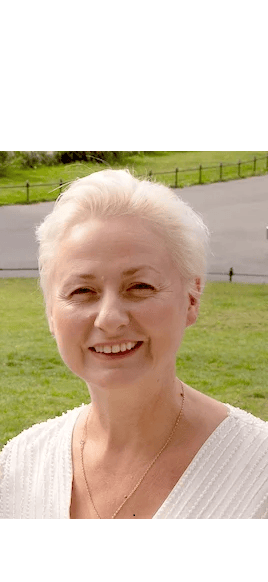
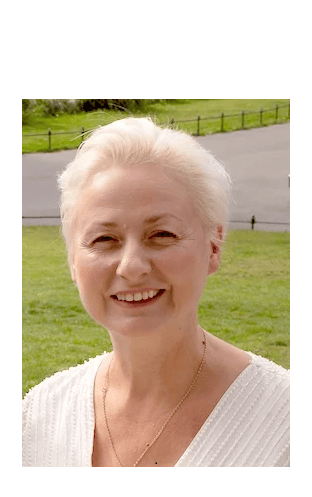
deploy: multimodalAI/multimodal-ai-hugo-group@0f777a10f112ae7446bccef2cc9a38927de125bc

diff --git a/author/anna-barnes/index.html b/author/anna-barnes/index.html
@@ -1,4 +1,4 @@
-<!doctype html><html lang=en-us><head><meta charset=utf-8><meta name=viewport content="width=device-width,initial-scale=1"><meta http-equiv=X-UA-Compatible content="IE=edge"><meta name=generator content="Wowchemy 5.7.0 for Hugo"><link rel=stylesheet href=/css/vendor-bundle.min.16f785cdb553c8c4431db6775122af35.css media=print onload='this.media="all"'><link rel=stylesheet href=https://cdn.jsdelivr.net/npm/academicons@1.9.2/css/academicons.min.css integrity="sha512-KlJCpRsLf+KKu2VQa5vmRuClRFjxc5lXO03ixZt82HZUk41+1I0bD8KBSA0fY290ayMfWYI9udIqeOWSu1/uZg==" crossorigin=anonymous media=print onload='this.media="all"'><link rel=stylesheet href=https://cdn.jsdelivr.net/npm/leaflet@1.7.1/dist/leaflet.min.css integrity crossorigin=anonymous media=print onload='this.media="all"'><link rel=stylesheet href=/css/wowchemy.b9231f75dcc97a371ce6141b4d2aadaf.css><link rel=stylesheet href=/css/libs/chroma/github-light.min.css title=hl-light media=print onload='this.media="all"'><link rel=stylesheet href=/css/libs/chroma/dracula.min.css title=hl-dark media=print onload='this.media="all"' disabled><script async src="https://www.googletagmanager.com/gtag/js?id=G-5K2K2GHWHQ"></script><script>window.dataLayer=window.dataLayer||[];function gtag(){dataLayer.push(arguments)}function trackOutboundLink(e,t){gtag("event","click",{event_category:"outbound",event_label:e,transport_type:"beacon",event_callback:function(){t!=="_blank"&&(document.location=e)}}),console.debug("Outbound link clicked: "+e)}function onClickCallback(e){if(e.target.tagName!=="A"||e.target.host===window.location.host)return;trackOutboundLink(e.target,e.target.getAttribute("target"))}gtag("js",new Date),gtag("config","G-5K2K2GHWHQ",{}),gtag("set",{cookie_flags:"SameSite=None;Secure"}),document.addEventListener("click",onClickCallback,!1)</script><meta name=author content="Haiping Lu"><meta name=description content="Unleashing the Potential of Multimodal AI - Join Us at Our Second Workshop!"><link rel=alternate hreflang=en-us href=https://multimodalAI.github.io/author/anna-barnes/><link rel=canonical href=https://multimodalAI.github.io/author/anna-barnes/><link rel=manifest href=/manifest.webmanifest><link rel=icon type=image/png href=/media/icon_hu25caa61f2e6d310cd2b668efa4781043_104298_32x32_fill_lanczos_center_3.png><link rel=apple-touch-icon type=image/png href=/media/icon_hu25caa61f2e6d310cd2b668efa4781043_104298_180x180_fill_lanczos_center_3.png><meta name=theme-color content="#1565c0"><meta property="twitter:card" content="summary"><meta property="twitter:site" content="@MultimodalAI_UK"><meta property="twitter:creator" content="@MultimodalAI_UK"><meta property="twitter:image" content="https://multimodalAI.github.io/author/anna-barnes/avatar_hu19ffdef67b503925eae9bc0d773384f8_153045_270x270_fill_lanczos_center_3.png"><meta property="og:site_name" content="UK Open Multimodal AI Network"><meta property="og:url" content="https://multimodalAI.github.io/author/anna-barnes/"><meta property="og:title" content="Anna Barnes | UK Open Multimodal AI Network"><meta property="og:description" content="Unleashing the Potential of Multimodal AI - Join Us at Our Second Workshop!"><meta property="og:image" content="https://multimodalAI.github.io/author/anna-barnes/avatar_hu19ffdef67b503925eae9bc0d773384f8_153045_270x270_fill_lanczos_center_3.png"><meta property="og:locale" content="en-us"><link rel=alternate href=/author/anna-barnes/index.xml type=application/rss+xml title="UK Open Multimodal AI Network"><title>Anna Barnes | UK Open Multimodal AI Network</title></head><body id=top data-spy=scroll data-offset=70 data-target=#TableOfContents class=page-wrapper data-wc-page-id=ac922c40d64991a8132fbf95b5ce5009><script src=/js/wowchemy-init.min.ec9d49ca50e4b80bdb08f0417a28ed84.js></script><aside class=search-modal id=search><div class=container><section class=search-header><div class="row no-gutters justify-content-between mb-3"><div class=col-6><h1>Search</h1></div><div class="col-6 col-search-close"><a class=js-search href=# aria-label=Close><i class="fas fa-times-circle text-muted" aria-hidden=true></i></a></div></div><div id=search-box><input name=q id=search-query placeholder=Search... autocapitalize=off autocomplete=off autocorrect=off spellcheck=false type=search class=form-control aria-label=Search...></div></section><section class=section-search-results><div id=search-hits></div></section></div></aside><div class="page-header header--fixed"><header><nav class="navbar navbar-expand-lg navbar-light compensate-for-scrollbar" id=navbar-main><div class=container-xl><div class="d-none d-lg-inline-flex"><a class=navbar-brand href=/>UK Open Multimodal AI Network</a></div><button type=button class=navbar-toggler data-toggle=collapse data-target=#navbar-content aria-controls=navbar-content aria-expanded=false aria-label="Toggle navigation">
+<!doctype html><html lang=en-us><head><meta charset=utf-8><meta name=viewport content="width=device-width,initial-scale=1"><meta http-equiv=X-UA-Compatible content="IE=edge"><meta name=generator content="Wowchemy 5.7.0 for Hugo"><link rel=stylesheet href=/css/vendor-bundle.min.16f785cdb553c8c4431db6775122af35.css media=print onload='this.media="all"'><link rel=stylesheet href=https://cdn.jsdelivr.net/npm/academicons@1.9.2/css/academicons.min.css integrity="sha512-KlJCpRsLf+KKu2VQa5vmRuClRFjxc5lXO03ixZt82HZUk41+1I0bD8KBSA0fY290ayMfWYI9udIqeOWSu1/uZg==" crossorigin=anonymous media=print onload='this.media="all"'><link rel=stylesheet href=https://cdn.jsdelivr.net/npm/leaflet@1.7.1/dist/leaflet.min.css integrity crossorigin=anonymous media=print onload='this.media="all"'><link rel=stylesheet href=/css/wowchemy.b9231f75dcc97a371ce6141b4d2aadaf.css><link rel=stylesheet href=/css/libs/chroma/github-light.min.css title=hl-light media=print onload='this.media="all"'><link rel=stylesheet href=/css/libs/chroma/dracula.min.css title=hl-dark media=print onload='this.media="all"' disabled><script async src="https://www.googletagmanager.com/gtag/js?id=G-5K2K2GHWHQ"></script><script>window.dataLayer=window.dataLayer||[];function gtag(){dataLayer.push(arguments)}function trackOutboundLink(e,t){gtag("event","click",{event_category:"outbound",event_label:e,transport_type:"beacon",event_callback:function(){t!=="_blank"&&(document.location=e)}}),console.debug("Outbound link clicked: "+e)}function onClickCallback(e){if(e.target.tagName!=="A"||e.target.host===window.location.host)return;trackOutboundLink(e.target,e.target.getAttribute("target"))}gtag("js",new Date),gtag("config","G-5K2K2GHWHQ",{}),gtag("set",{cookie_flags:"SameSite=None;Secure"}),document.addEventListener("click",onClickCallback,!1)</script><meta name=author content="Haiping Lu"><meta name=description content="Unleashing the Potential of Multimodal AI - Join Us at Our Second Workshop!"><link rel=alternate hreflang=en-us href=https://multimodalAI.github.io/author/anna-barnes/><link rel=canonical href=https://multimodalAI.github.io/author/anna-barnes/><link rel=manifest href=/manifest.webmanifest><link rel=icon type=image/png href=/media/icon_hu25caa61f2e6d310cd2b668efa4781043_104298_32x32_fill_lanczos_center_3.png><link rel=apple-touch-icon type=image/png href=/media/icon_hu25caa61f2e6d310cd2b668efa4781043_104298_180x180_fill_lanczos_center_3.png><meta name=theme-color content="#1565c0"><meta property="twitter:card" content="summary"><meta property="twitter:site" content="@MultimodalAI_UK"><meta property="twitter:creator" content="@MultimodalAI_UK"><meta property="twitter:image" content="https://multimodalAI.github.io/author/anna-barnes/avatar_huf59c078112a9e3cc5d7d2ec341d392d9_140605_270x270_fill_lanczos_center_3.png"><meta property="og:site_name" content="UK Open Multimodal AI Network"><meta property="og:url" content="https://multimodalAI.github.io/author/anna-barnes/"><meta property="og:title" content="Anna Barnes | UK Open Multimodal AI Network"><meta property="og:description" content="Unleashing the Potential of Multimodal AI - Join Us at Our Second Workshop!"><meta property="og:image" content="https://multimodalAI.github.io/author/anna-barnes/avatar_huf59c078112a9e3cc5d7d2ec341d392d9_140605_270x270_fill_lanczos_center_3.png"><meta property="og:locale" content="en-us"><link rel=alternate href=/author/anna-barnes/index.xml type=application/rss+xml title="UK Open Multimodal AI Network"><title>Anna Barnes | UK Open Multimodal AI Network</title></head><body id=top data-spy=scroll data-offset=70 data-target=#TableOfContents class=page-wrapper data-wc-page-id=ac922c40d64991a8132fbf95b5ce5009><script src=/js/wowchemy-init.min.ec9d49ca50e4b80bdb08f0417a28ed84.js></script><aside class=search-modal id=search><div class=container><section class=search-header><div class="row no-gutters justify-content-between mb-3"><div class=col-6><h1>Search</h1></div><div class="col-6 col-search-close"><a class=js-search href=# aria-label=Close><i class="fas fa-times-circle text-muted" aria-hidden=true></i></a></div></div><div id=search-box><input name=q id=search-query placeholder=Search... autocapitalize=off autocomplete=off autocorrect=off spellcheck=false type=search class=form-control aria-label=Search...></div></section><section class=section-search-results><div id=search-hits></div></section></div></aside><div class="page-header header--fixed"><header><nav class="navbar navbar-expand-lg navbar-light compensate-for-scrollbar" id=navbar-main><div class=container-xl><div class="d-none d-lg-inline-flex"><a class=navbar-brand href=/>UK Open Multimodal AI Network</a></div><button type=button class=navbar-toggler data-toggle=collapse data-target=#navbar-content aria-controls=navbar-content aria-expanded=false aria-label="Toggle navigation">
 <span><i class="fas fa-bars"></i></span></button><div class="navbar-brand-mobile-wrapper d-inline-flex d-lg-none"><a class=navbar-brand href=/>UK Open Multimodal AI Network</a></div><div class="navbar-collapse main-menu-item collapse justify-content-end" id=navbar-content><ul class="navbar-nav d-md-inline-flex"><li class=nav-item><a class=nav-link href=/omaib><span>Funding Call</span></a></li><li class=nav-item><a class=nav-link href=/multimodalai25><span>MultimodalAI'25</span></a></li><li class=nav-item><a class=nav-link href=/embc25workshop><span>EMBC'25</span></a></li><li class="nav-item dropdown"><a href=# class="nav-link dropdown-toggle" data-toggle=dropdown aria-haspopup=true><span>About</span><span class=caret></span></a><div class=dropdown-menu><a class=dropdown-item href=/#ukomain><span>UKOMAIN</span></a>
 <a class=dropdown-item href=/#team><span>Team</span></a>
 <a class=dropdown-item href=/#contact><span>Contact</span></a></div></li><li class="nav-item dropdown"><a href=# class="nav-link dropdown-toggle" data-toggle=dropdown aria-haspopup=true><span>Past Events</span><span class=caret></span></a><div class=dropdown-menu><a class=dropdown-item href=/multimodalai24><span>MultimodalAI'24</span></a>
@@ -6,7 +6,7 @@
 <a class=dropdown-item href=/multimodalai-sprint23><span>MultimodalAISprint'23</span></a>
 <a class=dropdown-item href=/multimodalai23><span>MultimodalAI'23</span></a></div></li><li class=nav-item><a class=nav-link href=/code-of-conduct><span>Code of Conduct</span></a></li></ul></div><ul class="nav-icons navbar-nav flex-row ml-auto d-flex pl-md-2"><li class=nav-item><a class="nav-link js-search" href=# aria-label=Search><i class="fas fa-search" aria-hidden=true></i></a></li><li class="nav-item dropdown theme-dropdown"><a href=# class=nav-link data-toggle=dropdown aria-haspopup=true aria-label="Display preferences"><i class="fas fa-moon" aria-hidden=true></i></a><div class=dropdown-menu><a href=# class="dropdown-item js-set-theme-light"><span>Light</span>
 </a><a href=# class="dropdown-item js-set-theme-dark"><span>Dark</span>
-</a><a href=# class="dropdown-item js-set-theme-auto"><span>Automatic</span></a></div></li></ul></div></nav></header></div><div class=page-body><section id=profile-page class=pt-5><div class=container><div class=row><div class="col-12 col-lg-4"><div id=profile><img class="avatar avatar-circle" width=270 height=270 src=/author/anna-barnes/avatar_hu19ffdef67b503925eae9bc0d773384f8_153045_270x270_fill_lanczos_center_3.png alt="Anna Barnes"><div class=portrait-title><h2>Anna Barnes</h2><h3>Advisory Board Member of the UK Open Multimodal AI Network, President of Institute of Physics and Engineering in Medicine, Director of the King&rsquo;s Technology Evaluation Centre, King&rsquo;s College London</h3><h3><span></span></h3></div><ul class=network-icon aria-hidden=true><li><a href="https://www.linkedin.com/in/annapbarnes/?originalSubdomain=uk" target=_blank rel=noopener aria-label=linkedin><i class="fab fa-linkedin big-icon"></i></a></li><li><a href="https://scholar.google.co.uk/citations?user=M8KOhXQAAAAJ&amp;hl=en" target=_blank rel=noopener aria-label=google-scholar><i class="ai ai-google-scholar big-icon"></i></a></li><li><a href=https://www.kcl.ac.uk/people/anna-barnes target=_blank rel=noopener aria-label=globe><i class="fas fa-globe big-icon"></i></a></li></ul></div></div><div class="col-12 col-lg-8"><div class=article-style><p>Biography: Dr Anna Barnes is Director of the King&rsquo;s Technology Evaluation Centre, HCPC registered Clinical Scientist (Medical Physics) and President of the Inst of Physics and Engineering in Medicine. KiTEC is a team of health technology assessors, medical statisticians and health economists in receipt of contracts from NICE medical technology assessment committee since 2014 and has undertaken more than 20 Evaluation Projects in the last 5 years.</p><p>In 2020, KiTEC was selected to become an Evaluation Partner for the AI in Health and Care Awards, a large scale, multi-million NHS funded programme that aims at accelerating the testing and evaluation of the most promising AI technologies for national roll out.</p><p>Under this award, KiTEC is currently the Technology Specific Evaluation Team (TSET) facilitating AI evaluations trials nationally. In order to evaluate the “real-world” fit and the added value of the proposed AI technology KiTEC follow the “Engineering for Better Healthcare” systems approach (iitoolkit.com) pioneered by Prof John Clarkson, Cambridge University.</p></div><div class=row></div></div></div></div></section></div><div class=page-footer><div class=container><footer class=site-footer><p class="powered-by copyright-license-text">© 2025 UK Open Multimodal AI Network (UKOMAIN).<br><a href=/privacy-and-data-use/>Privacy and Data Use Notice</a></p><p class=powered-by>Published with <a href="https://wowchemy.com/?utm_campaign=poweredby" target=_blank rel=noopener>Wowchemy</a> — the free, <a href=https://github.com/wowchemy/wowchemy-hugo-themes target=_blank rel=noopener>open source</a> website builder that empowers creators.</p></footer></div></div><script src=/js/vendor-bundle.min.b4708d4364577c16ab7001b265a063a4.js></script><script src=https://cdn.jsdelivr.net/npm/leaflet@1.7.1/dist/leaflet.min.js integrity crossorigin=anonymous></script><script id=search-hit-fuse-template type=text/x-template>
+</a><a href=# class="dropdown-item js-set-theme-auto"><span>Automatic</span></a></div></li></ul></div></nav></header></div><div class=page-body><section id=profile-page class=pt-5><div class=container><div class=row><div class="col-12 col-lg-4"><div id=profile><img class="avatar avatar-circle" width=270 height=270 src=/author/anna-barnes/avatar_huf59c078112a9e3cc5d7d2ec341d392d9_140605_270x270_fill_lanczos_center_3.png alt="Anna Barnes"><div class=portrait-title><h2>Anna Barnes</h2><h3>Advisory Board Member of the UK Open Multimodal AI Network, President of Institute of Physics and Engineering in Medicine, Director of the King&rsquo;s Technology Evaluation Centre, King&rsquo;s College London</h3><h3><span></span></h3></div><ul class=network-icon aria-hidden=true><li><a href="https://www.linkedin.com/in/annapbarnes/?originalSubdomain=uk" target=_blank rel=noopener aria-label=linkedin><i class="fab fa-linkedin big-icon"></i></a></li><li><a href="https://scholar.google.co.uk/citations?user=M8KOhXQAAAAJ&amp;hl=en" target=_blank rel=noopener aria-label=google-scholar><i class="ai ai-google-scholar big-icon"></i></a></li><li><a href=https://www.kcl.ac.uk/people/anna-barnes target=_blank rel=noopener aria-label=globe><i class="fas fa-globe big-icon"></i></a></li></ul></div></div><div class="col-12 col-lg-8"><div class=article-style><p>Biography: Dr Anna Barnes is Director of the King&rsquo;s Technology Evaluation Centre, HCPC registered Clinical Scientist (Medical Physics) and President of the Inst of Physics and Engineering in Medicine. KiTEC is a team of health technology assessors, medical statisticians and health economists in receipt of contracts from NICE medical technology assessment committee since 2014 and has undertaken more than 20 Evaluation Projects in the last 5 years.</p><p>In 2020, KiTEC was selected to become an Evaluation Partner for the AI in Health and Care Awards, a large scale, multi-million NHS funded programme that aims at accelerating the testing and evaluation of the most promising AI technologies for national roll out.</p><p>Under this award, KiTEC is currently the Technology Specific Evaluation Team (TSET) facilitating AI evaluations trials nationally. In order to evaluate the “real-world” fit and the added value of the proposed AI technology KiTEC follow the “Engineering for Better Healthcare” systems approach (iitoolkit.com) pioneered by Prof John Clarkson, Cambridge University.</p></div><div class=row></div></div></div></div></section></div><div class=page-footer><div class=container><footer class=site-footer><p class="powered-by copyright-license-text">© 2025 UK Open Multimodal AI Network (UKOMAIN).<br><a href=/privacy-and-data-use/>Privacy and Data Use Notice</a></p><p class=powered-by>Published with <a href="https://wowchemy.com/?utm_campaign=poweredby" target=_blank rel=noopener>Wowchemy</a> — the free, <a href=https://github.com/wowchemy/wowchemy-hugo-themes target=_blank rel=noopener>open source</a> website builder that empowers creators.</p></footer></div></div><script src=/js/vendor-bundle.min.b4708d4364577c16ab7001b265a063a4.js></script><script src=https://cdn.jsdelivr.net/npm/leaflet@1.7.1/dist/leaflet.min.js integrity crossorigin=anonymous></script><script id=search-hit-fuse-template type=text/x-template>
     <div class="search-hit" id="summary-{{key}}">
       <div class="search-hit-content">
         <div class="search-hit-name">

diff --git a/author/ronghui-liu/index.html b/author/ronghui-liu/index.html
@@ -1,4 +1,4 @@
-<!doctype html><html lang=en-us><head><meta charset=utf-8><meta name=viewport content="width=device-width,initial-scale=1"><meta http-equiv=X-UA-Compatible content="IE=edge"><meta name=generator content="Wowchemy 5.7.0 for Hugo"><link rel=stylesheet href=/css/vendor-bundle.min.16f785cdb553c8c4431db6775122af35.css media=print onload='this.media="all"'><link rel=stylesheet href=https://cdn.jsdelivr.net/npm/academicons@1.9.2/css/academicons.min.css integrity="sha512-KlJCpRsLf+KKu2VQa5vmRuClRFjxc5lXO03ixZt82HZUk41+1I0bD8KBSA0fY290ayMfWYI9udIqeOWSu1/uZg==" crossorigin=anonymous media=print onload='this.media="all"'><link rel=stylesheet href=https://cdn.jsdelivr.net/npm/leaflet@1.7.1/dist/leaflet.min.css integrity crossorigin=anonymous media=print onload='this.media="all"'><link rel=stylesheet href=/css/wowchemy.b9231f75dcc97a371ce6141b4d2aadaf.css><link rel=stylesheet href=/css/libs/chroma/github-light.min.css title=hl-light media=print onload='this.media="all"'><link rel=stylesheet href=/css/libs/chroma/dracula.min.css title=hl-dark media=print onload='this.media="all"' disabled><script async src="https://www.googletagmanager.com/gtag/js?id=G-5K2K2GHWHQ"></script><script>window.dataLayer=window.dataLayer||[];function gtag(){dataLayer.push(arguments)}function trackOutboundLink(e,t){gtag("event","click",{event_category:"outbound",event_label:e,transport_type:"beacon",event_callback:function(){t!=="_blank"&&(document.location=e)}}),console.debug("Outbound link clicked: "+e)}function onClickCallback(e){if(e.target.tagName!=="A"||e.target.host===window.location.host)return;trackOutboundLink(e.target,e.target.getAttribute("target"))}gtag("js",new Date),gtag("config","G-5K2K2GHWHQ",{}),gtag("set",{cookie_flags:"SameSite=None;Secure"}),document.addEventListener("click",onClickCallback,!1)</script><meta name=author content="Haiping Lu"><meta name=description content="Unleashing the Potential of Multimodal AI - Join Us at Our Second Workshop!"><link rel=alternate hreflang=en-us href=https://multimodalAI.github.io/author/ronghui-liu/><link rel=canonical href=https://multimodalAI.github.io/author/ronghui-liu/><link rel=manifest href=/manifest.webmanifest><link rel=icon type=image/png href=/media/icon_hu25caa61f2e6d310cd2b668efa4781043_104298_32x32_fill_lanczos_center_3.png><link rel=apple-touch-icon type=image/png href=/media/icon_hu25caa61f2e6d310cd2b668efa4781043_104298_180x180_fill_lanczos_center_3.png><meta name=theme-color content="#1565c0"><meta property="twitter:card" content="summary"><meta property="twitter:site" content="@MultimodalAI_UK"><meta property="twitter:creator" content="@MultimodalAI_UK"><meta property="twitter:image" content="https://multimodalAI.github.io/author/ronghui-liu/avatar_hua2b0a128c5f15dff639d8f99733be2bd_15648_270x270_fill_q75_lanczos_center.jpg"><meta property="og:site_name" content="UK Open Multimodal AI Network"><meta property="og:url" content="https://multimodalAI.github.io/author/ronghui-liu/"><meta property="og:title" content="Ronghui Liu | UK Open Multimodal AI Network"><meta property="og:description" content="Unleashing the Potential of Multimodal AI - Join Us at Our Second Workshop!"><meta property="og:image" content="https://multimodalAI.github.io/author/ronghui-liu/avatar_hua2b0a128c5f15dff639d8f99733be2bd_15648_270x270_fill_q75_lanczos_center.jpg"><meta property="og:locale" content="en-us"><link rel=alternate href=/author/ronghui-liu/index.xml type=application/rss+xml title="UK Open Multimodal AI Network"><title>Ronghui Liu | UK Open Multimodal AI Network</title></head><body id=top data-spy=scroll data-offset=70 data-target=#TableOfContents class=page-wrapper data-wc-page-id=ef10cffc7036d87a7032045be61d7f09><script src=/js/wowchemy-init.min.ec9d49ca50e4b80bdb08f0417a28ed84.js></script><aside class=search-modal id=search><div class=container><section class=search-header><div class="row no-gutters justify-content-between mb-3"><div class=col-6><h1>Search</h1></div><div class="col-6 col-search-close"><a class=js-search href=# aria-label=Close><i class="fas fa-times-circle text-muted" aria-hidden=true></i></a></div></div><div id=search-box><input name=q id=search-query placeholder=Search... autocapitalize=off autocomplete=off autocorrect=off spellcheck=false type=search class=form-control aria-label=Search...></div></section><section class=section-search-results><div id=search-hits></div></section></div></aside><div class="page-header header--fixed"><header><nav class="navbar navbar-expand-lg navbar-light compensate-for-scrollbar" id=navbar-main><div class=container-xl><div class="d-none d-lg-inline-flex"><a class=navbar-brand href=/>UK Open Multimodal AI Network</a></div><button type=button class=navbar-toggler data-toggle=collapse data-target=#navbar-content aria-controls=navbar-content aria-expanded=false aria-label="Toggle navigation">
+<!doctype html><html lang=en-us><head><meta charset=utf-8><meta name=viewport content="width=device-width,initial-scale=1"><meta http-equiv=X-UA-Compatible content="IE=edge"><meta name=generator content="Wowchemy 5.7.0 for Hugo"><link rel=stylesheet href=/css/vendor-bundle.min.16f785cdb553c8c4431db6775122af35.css media=print onload='this.media="all"'><link rel=stylesheet href=https://cdn.jsdelivr.net/npm/academicons@1.9.2/css/academicons.min.css integrity="sha512-KlJCpRsLf+KKu2VQa5vmRuClRFjxc5lXO03ixZt82HZUk41+1I0bD8KBSA0fY290ayMfWYI9udIqeOWSu1/uZg==" crossorigin=anonymous media=print onload='this.media="all"'><link rel=stylesheet href=https://cdn.jsdelivr.net/npm/leaflet@1.7.1/dist/leaflet.min.css integrity crossorigin=anonymous media=print onload='this.media="all"'><link rel=stylesheet href=/css/wowchemy.b9231f75dcc97a371ce6141b4d2aadaf.css><link rel=stylesheet href=/css/libs/chroma/github-light.min.css title=hl-light media=print onload='this.media="all"'><link rel=stylesheet href=/css/libs/chroma/dracula.min.css title=hl-dark media=print onload='this.media="all"' disabled><script async src="https://www.googletagmanager.com/gtag/js?id=G-5K2K2GHWHQ"></script><script>window.dataLayer=window.dataLayer||[];function gtag(){dataLayer.push(arguments)}function trackOutboundLink(e,t){gtag("event","click",{event_category:"outbound",event_label:e,transport_type:"beacon",event_callback:function(){t!=="_blank"&&(document.location=e)}}),console.debug("Outbound link clicked: "+e)}function onClickCallback(e){if(e.target.tagName!=="A"||e.target.host===window.location.host)return;trackOutboundLink(e.target,e.target.getAttribute("target"))}gtag("js",new Date),gtag("config","G-5K2K2GHWHQ",{}),gtag("set",{cookie_flags:"SameSite=None;Secure"}),document.addEventListener("click",onClickCallback,!1)</script><meta name=author content="Haiping Lu"><meta name=description content="Unleashing the Potential of Multimodal AI - Join Us at Our Second Workshop!"><link rel=alternate hreflang=en-us href=https://multimodalAI.github.io/author/ronghui-liu/><link rel=canonical href=https://multimodalAI.github.io/author/ronghui-liu/><link rel=manifest href=/manifest.webmanifest><link rel=icon type=image/png href=/media/icon_hu25caa61f2e6d310cd2b668efa4781043_104298_32x32_fill_lanczos_center_3.png><link rel=apple-touch-icon type=image/png href=/media/icon_hu25caa61f2e6d310cd2b668efa4781043_104298_180x180_fill_lanczos_center_3.png><meta name=theme-color content="#1565c0"><meta property="twitter:card" content="summary"><meta property="twitter:site" content="@MultimodalAI_UK"><meta property="twitter:creator" content="@MultimodalAI_UK"><meta property="twitter:image" content="https://multimodalAI.github.io/author/ronghui-liu/avatar_hu8a33ac97b6eedcbef0c7279e34a859a1_139799_270x270_fill_lanczos_center_3.png"><meta property="og:site_name" content="UK Open Multimodal AI Network"><meta property="og:url" content="https://multimodalAI.github.io/author/ronghui-liu/"><meta property="og:title" content="Ronghui Liu | UK Open Multimodal AI Network"><meta property="og:description" content="Unleashing the Potential of Multimodal AI - Join Us at Our Second Workshop!"><meta property="og:image" content="https://multimodalAI.github.io/author/ronghui-liu/avatar_hu8a33ac97b6eedcbef0c7279e34a859a1_139799_270x270_fill_lanczos_center_3.png"><meta property="og:locale" content="en-us"><link rel=alternate href=/author/ronghui-liu/index.xml type=application/rss+xml title="UK Open Multimodal AI Network"><title>Ronghui Liu | UK Open Multimodal AI Network</title></head><body id=top data-spy=scroll data-offset=70 data-target=#TableOfContents class=page-wrapper data-wc-page-id=ef10cffc7036d87a7032045be61d7f09><script src=/js/wowchemy-init.min.ec9d49ca50e4b80bdb08f0417a28ed84.js></script><aside class=search-modal id=search><div class=container><section class=search-header><div class="row no-gutters justify-content-between mb-3"><div class=col-6><h1>Search</h1></div><div class="col-6 col-search-close"><a class=js-search href=# aria-label=Close><i class="fas fa-times-circle text-muted" aria-hidden=true></i></a></div></div><div id=search-box><input name=q id=search-query placeholder=Search... autocapitalize=off autocomplete=off autocorrect=off spellcheck=false type=search class=form-control aria-label=Search...></div></section><section class=section-search-results><div id=search-hits></div></section></div></aside><div class="page-header header--fixed"><header><nav class="navbar navbar-expand-lg navbar-light compensate-for-scrollbar" id=navbar-main><div class=container-xl><div class="d-none d-lg-inline-flex"><a class=navbar-brand href=/>UK Open Multimodal AI Network</a></div><button type=button class=navbar-toggler data-toggle=collapse data-target=#navbar-content aria-controls=navbar-content aria-expanded=false aria-label="Toggle navigation">
 <span><i class="fas fa-bars"></i></span></button><div class="navbar-brand-mobile-wrapper d-inline-flex d-lg-none"><a class=navbar-brand href=/>UK Open Multimodal AI Network</a></div><div class="navbar-collapse main-menu-item collapse justify-content-end" id=navbar-content><ul class="navbar-nav d-md-inline-flex"><li class=nav-item><a class=nav-link href=/omaib><span>Funding Call</span></a></li><li class=nav-item><a class=nav-link href=/multimodalai25><span>MultimodalAI'25</span></a></li><li class=nav-item><a class=nav-link href=/embc25workshop><span>EMBC'25</span></a></li><li class="nav-item dropdown"><a href=# class="nav-link dropdown-toggle" data-toggle=dropdown aria-haspopup=true><span>About</span><span class=caret></span></a><div class=dropdown-menu><a class=dropdown-item href=/#ukomain><span>UKOMAIN</span></a>
 <a class=dropdown-item href=/#team><span>Team</span></a>
 <a class=dropdown-item href=/#contact><span>Contact</span></a></div></li><li class="nav-item dropdown"><a href=# class="nav-link dropdown-toggle" data-toggle=dropdown aria-haspopup=true><span>Past Events</span><span class=caret></span></a><div class=dropdown-menu><a class=dropdown-item href=/multimodalai24><span>MultimodalAI'24</span></a>
@@ -6,7 +6,7 @@
 <a class=dropdown-item href=/multimodalai-sprint23><span>MultimodalAISprint'23</span></a>
 <a class=dropdown-item href=/multimodalai23><span>MultimodalAI'23</span></a></div></li><li class=nav-item><a class=nav-link href=/code-of-conduct><span>Code of Conduct</span></a></li></ul></div><ul class="nav-icons navbar-nav flex-row ml-auto d-flex pl-md-2"><li class=nav-item><a class="nav-link js-search" href=# aria-label=Search><i class="fas fa-search" aria-hidden=true></i></a></li><li class="nav-item dropdown theme-dropdown"><a href=# class=nav-link data-toggle=dropdown aria-haspopup=true aria-label="Display preferences"><i class="fas fa-moon" aria-hidden=true></i></a><div class=dropdown-menu><a href=# class="dropdown-item js-set-theme-light"><span>Light</span>
 </a><a href=# class="dropdown-item js-set-theme-dark"><span>Dark</span>
-</a><a href=# class="dropdown-item js-set-theme-auto"><span>Automatic</span></a></div></li></ul></div></nav></header></div><div class=page-body><section id=profile-page class=pt-5><div class=container><div class=row><div class="col-12 col-lg-4"><div id=profile><img class="avatar avatar-circle" width=270 height=270 src=/author/ronghui-liu/avatar_hua2b0a128c5f15dff639d8f99733be2bd_15648_270x270_fill_q75_lanczos_center.jpg alt="Ronghui Liu"><div class=portrait-title><h2>Ronghui Liu</h2><h3>Professor of Networks and Transport Operations, University of Leeds</h3><h3><span></span></h3></div><ul class=network-icon aria-hidden=true><li><a href=https://www.linkedin.com/in/prof-ronghui-liu-98745326/ target=_blank rel=noopener aria-label=linkedin><i class="fab fa-linkedin big-icon"></i></a></li><li><a href="https://scholar.google.com/citations?user=lZNeTSwAAAAJ&amp;hl=en" target=_blank rel=noopener aria-label=google-scholar><i class="ai ai-google-scholar big-icon"></i></a></li><li><a href=https://environment.leeds.ac.uk/transport/staff/951/professor-ronghui-liu target=_blank rel=noopener aria-label=globe><i class="fas fa-globe big-icon"></i></a></li></ul></div></div><div class="col-12 col-lg-8"><div class=article-style><p>Biography: Professor Ronghui Liu, Professor of Networks and Transport Operations, at the Institute for Transport Studies (ITS), University of Leeds, UK. She received her BSc from Peking University and PhD from Cambridge University. Before joining ITS Leeds, she was a Research Fellow at University College London, and while at ITS, she was seconded to head the Transport Modelling Division at TRL, UK in 2005. She served as an Associate Editor for journal IEEE Transaction on Intelligent Transportation Systems, and Member of Editorial Board of IET Journal of Intelligent Transport. Her research areas span a number of themes in the field of transport studies: in vehicle dynamics and traffic microsimulaton model developments; in traffic control theory and algorithms; in travel behaviour and Intelligent mobility; in stochastic models and reliability analysis; in public transport operations and controls; in timetabling and schedule coordination; and in train control and railway traffic management systems. She is particularly interested in the interrelationships between these themes, and methodologies for estimation, design and evaluation of their network-wide effects.</p></div><div class=row></div></div></div></div></section></div><div class=page-footer><div class=container><footer class=site-footer><p class="powered-by copyright-license-text">© 2025 UK Open Multimodal AI Network (UKOMAIN).<br><a href=/privacy-and-data-use/>Privacy and Data Use Notice</a></p><p class=powered-by>Published with <a href="https://wowchemy.com/?utm_campaign=poweredby" target=_blank rel=noopener>Wowchemy</a> — the free, <a href=https://github.com/wowchemy/wowchemy-hugo-themes target=_blank rel=noopener>open source</a> website builder that empowers creators.</p></footer></div></div><script src=/js/vendor-bundle.min.b4708d4364577c16ab7001b265a063a4.js></script><script src=https://cdn.jsdelivr.net/npm/leaflet@1.7.1/dist/leaflet.min.js integrity crossorigin=anonymous></script><script id=search-hit-fuse-template type=text/x-template>
+</a><a href=# class="dropdown-item js-set-theme-auto"><span>Automatic</span></a></div></li></ul></div></nav></header></div><div class=page-body><section id=profile-page class=pt-5><div class=container><div class=row><div class="col-12 col-lg-4"><div id=profile><img class="avatar avatar-circle" width=270 height=270 src=/author/ronghui-liu/avatar_hu8a33ac97b6eedcbef0c7279e34a859a1_139799_270x270_fill_lanczos_center_3.png alt="Ronghui Liu"><div class=portrait-title><h2>Ronghui Liu</h2><h3>Professor of Networks and Transport Operations, University of Leeds</h3><h3><span></span></h3></div><ul class=network-icon aria-hidden=true><li><a href=https://www.linkedin.com/in/prof-ronghui-liu-98745326/ target=_blank rel=noopener aria-label=linkedin><i class="fab fa-linkedin big-icon"></i></a></li><li><a href="https://scholar.google.com/citations?user=lZNeTSwAAAAJ&amp;hl=en" target=_blank rel=noopener aria-label=google-scholar><i class="ai ai-google-scholar big-icon"></i></a></li><li><a href=https://environment.leeds.ac.uk/transport/staff/951/professor-ronghui-liu target=_blank rel=noopener aria-label=globe><i class="fas fa-globe big-icon"></i></a></li></ul></div></div><div class="col-12 col-lg-8"><div class=article-style><p>Biography: Professor Ronghui Liu, Professor of Networks and Transport Operations, at the Institute for Transport Studies (ITS), University of Leeds, UK. She received her BSc from Peking University and PhD from Cambridge University. Before joining ITS Leeds, she was a Research Fellow at University College London, and while at ITS, she was seconded to head the Transport Modelling Division at TRL, UK in 2005. She served as an Associate Editor for journal IEEE Transaction on Intelligent Transportation Systems, and Member of Editorial Board of IET Journal of Intelligent Transport. Her research areas span a number of themes in the field of transport studies: in vehicle dynamics and traffic microsimulaton model developments; in traffic control theory and algorithms; in travel behaviour and Intelligent mobility; in stochastic models and reliability analysis; in public transport operations and controls; in timetabling and schedule coordination; and in train control and railway traffic management systems. She is particularly interested in the interrelationships between these themes, and methodologies for estimation, design and evaluation of their network-wide effects.</p></div><div class=row></div></div></div></div></section></div><div class=page-footer><div class=container><footer class=site-footer><p class="powered-by copyright-license-text">© 2025 UK Open Multimodal AI Network (UKOMAIN).<br><a href=/privacy-and-data-use/>Privacy and Data Use Notice</a></p><p class=powered-by>Published with <a href="https://wowchemy.com/?utm_campaign=poweredby" target=_blank rel=noopener>Wowchemy</a> — the free, <a href=https://github.com/wowchemy/wowchemy-hugo-themes target=_blank rel=noopener>open source</a> website builder that empowers creators.</p></footer></div></div><script src=/js/vendor-bundle.min.b4708d4364577c16ab7001b265a063a4.js></script><script src=https://cdn.jsdelivr.net/npm/leaflet@1.7.1/dist/leaflet.min.js integrity crossorigin=anonymous></script><script id=search-hit-fuse-template type=text/x-template>
     <div class="search-hit" id="summary-{{key}}">
       <div class="search-hit-content">
         <div class="search-hit-name">

diff --git a/multimodalai25/index.html b/multimodalai25/index.html
@@ -18,7 +18,7 @@
 </a><a href=/call-for-sponsorship/ style=text-decoration:none><button>Sponsor Us</button>
 </a><a href=#key_dates style=text-decoration:none><button>Key Dates</button>
 </a><a href=#about style=text-decoration:none><button>About</button>
-</a><a href=#contact style=text-decoration:none><button>Contact Us</button></a></div></div><div class="col-12 col-sm-auto people-person"><a href=/author/ampea-karikari-boateng/><img width=270 height=270 loading=lazy class="avatar avatar-circle" src=/author/ampea-karikari-boateng/avatar_hu141cde6a18d77107048fa41c735dc157_37994_270x270_fill_q75_lanczos_center.jpg alt=Avatar></a><div class=portrait-title><h2><a href=/author/ampea-karikari-boateng/>Ampea Karikari-Boateng</a></h2><h3>Principal R&amp;D Engineer in Wind Turbine Architecture, Offshore Renewable Energy Catapult</h3></div></div><div class="col-12 col-sm-auto people-person"><a href=/author/anna-barnes/><img width=270 height=270 loading=lazy class="avatar avatar-circle" src=/author/anna-barnes/avatar_hu19ffdef67b503925eae9bc0d773384f8_153045_270x270_fill_lanczos_center_3.png alt=Avatar></a><div class=portrait-title><h2><a href=/author/anna-barnes/>Anna Barnes</a></h2><h3>Advisory Board Member of the UK Open Multimodal AI Network, President of Institute of Physics and Engineering in Medicine, Director of the King&rsquo;s Technology Evaluation Centre, King&rsquo;s College London</h3></div></div><div class="col-12 col-sm-auto people-person"><a href=/author/emine-yilmaz/><img width=270 height=270 loading=lazy class="avatar avatar-circle" src=/author/emine-yilmaz/avatar_hu849ce1ea1b0f0df4920e8c899f679c30_10050_270x270_fill_q75_lanczos_center.jpg alt=Avatar></a><div class=portrait-title><h2><a href=/author/emine-yilmaz/>Emine Yilmaz</a></h2><h3>Advisory Board Member of the UK Open Multimodal AI Network, Professor and an EPSRC Fellow at University College London & Amazon Scholar</h3></div></div><div class="col-12 col-sm-auto people-person"><a href=/author/maria-luciana-axente/><img width=270 height=270 loading=lazy class="avatar avatar-circle" src=/author/maria-luciana-axente/avatar_hu910f48fbd25fdcdf40b3170be8c1efd9_242277_270x270_fill_q75_lanczos_center.jpg alt=Avatar></a><div class=portrait-title><h2><a href=/author/maria-luciana-axente/>Maria Luciana Axente</a></h2><h3>Advisory Board Member of the UK Open Multimodal AI Network,Founder and CEO of Responsible Intelligence and former Head of AI Public Policy and Ethics at PwC UK</h3></div></div><div class="col-12 col-sm-auto people-person"><a href=/author/rebecca-croasdale-wood/><img width=270 height=270 loading=lazy class="avatar avatar-circle" src=/author/rebecca-croasdale-wood/avatar_hud31e21cd93b98bc0c32a4c748f54a6a2_493092_270x270_fill_lanczos_center_3.png alt=Avatar></a><div class=portrait-title><h2><a href=/author/rebecca-croasdale-wood/>Rebecca Croasdale-Wood</a></h2><h3>Senior Director Biologics Engineering,Oncology at AstraZeneca, Director Augmented Biologics Discovery & Design</h3></div></div><div class="col-12 col-sm-auto people-person"><a href=/author/ronghui-liu/><img width=270 height=270 loading=lazy class="avatar avatar-circle" src=/author/ronghui-liu/avatar_hua2b0a128c5f15dff639d8f99733be2bd_15648_270x270_fill_q75_lanczos_center.jpg alt=Avatar></a><div class=portrait-title><h2><a href=/author/ronghui-liu/>Ronghui Liu</a></h2><h3>Professor of Networks and Transport Operations, University of Leeds</h3></div></div><div class="col-12 col-sm-auto people-person"><a href=/author/thomas-gorochowski/><img width=270 height=270 loading=lazy class="avatar avatar-circle" src=/author/thomas-gorochowski/avatar_hu7c38fa4f4d295784d4c55ff52fd651c7_68909_270x270_fill_q75_lanczos_center.jpg alt=Avatar></a><div class=portrait-title><h2><a href=/author/thomas-gorochowski/>Thomas Gorochowski</a></h2><h3>Professor of Biological Engineering, University of Bristol</h3></div></div><div class="col-12 col-sm-auto people-person"><a href=/author/tian-xie/><img width=270 height=270 loading=lazy class="avatar avatar-circle" src=/author/tian-xie/avatar_hub9593d566e5e968acfa37fffb10f3d99_31830_270x270_fill_q75_lanczos_center.jpg alt=Avatar></a><div class=portrait-title><h2><a href=/author/tian-xie/>Tian Xie</a></h2><h3>Principal Research Manager and Project Lead at Microsoft Research AI for Science</h3></div></div></div></div></section><section id=welcome_address class="home-section wg-people"><div class=home-section-bg></div><div class=container><div class="row justify-content-center people-widget"><div class="col-md-12 section-heading"><h1>Welcome Address</h1></div><div class=col-md-12><style>.sticky-buttons{position:fixed;top:1px!important;left:50%;transform:translateX(-50%);background:rgba(255,255,255,.9);padding:5px 8px;border-radius:8px;box-shadow:0 4px 6px rgba(0,0,0,.1);z-index:9999}.sticky-buttons button{font-family:open sans,Arial,sans-serif;font-size:14px;font-weight:700;padding:6px 12px;border:none;border-radius:4px;background-color:#154c79;color:#abdbe3;cursor:pointer;margin-right:8px;flex:none;min-width:120px}</style><div class=sticky-buttons><a href=#speaker style=text-decoration:none><button>Speakers</button>
+</a><a href=#contact style=text-decoration:none><button>Contact Us</button></a></div></div><div class="col-12 col-sm-auto people-person"><a href=/author/ampea-karikari-boateng/><img width=270 height=270 loading=lazy class="avatar avatar-circle" src=/author/ampea-karikari-boateng/avatar_hu141cde6a18d77107048fa41c735dc157_37994_270x270_fill_q75_lanczos_center.jpg alt=Avatar></a><div class=portrait-title><h2><a href=/author/ampea-karikari-boateng/>Ampea Karikari-Boateng</a></h2><h3>Principal R&amp;D Engineer in Wind Turbine Architecture, Offshore Renewable Energy Catapult</h3></div></div><div class="col-12 col-sm-auto people-person"><a href=/author/anna-barnes/><img width=270 height=270 loading=lazy class="avatar avatar-circle" src=/author/anna-barnes/avatar_huf59c078112a9e3cc5d7d2ec341d392d9_140605_270x270_fill_lanczos_center_3.png alt=Avatar></a><div class=portrait-title><h2><a href=/author/anna-barnes/>Anna Barnes</a></h2><h3>Advisory Board Member of the UK Open Multimodal AI Network, President of Institute of Physics and Engineering in Medicine, Director of the King&rsquo;s Technology Evaluation Centre, King&rsquo;s College London</h3></div></div><div class="col-12 col-sm-auto people-person"><a href=/author/emine-yilmaz/><img width=270 height=270 loading=lazy class="avatar avatar-circle" src=/author/emine-yilmaz/avatar_hu849ce1ea1b0f0df4920e8c899f679c30_10050_270x270_fill_q75_lanczos_center.jpg alt=Avatar></a><div class=portrait-title><h2><a href=/author/emine-yilmaz/>Emine Yilmaz</a></h2><h3>Advisory Board Member of the UK Open Multimodal AI Network, Professor and an EPSRC Fellow at University College London & Amazon Scholar</h3></div></div><div class="col-12 col-sm-auto people-person"><a href=/author/maria-luciana-axente/><img width=270 height=270 loading=lazy class="avatar avatar-circle" src=/author/maria-luciana-axente/avatar_hu910f48fbd25fdcdf40b3170be8c1efd9_242277_270x270_fill_q75_lanczos_center.jpg alt=Avatar></a><div class=portrait-title><h2><a href=/author/maria-luciana-axente/>Maria Luciana Axente</a></h2><h3>Advisory Board Member of the UK Open Multimodal AI Network,Founder and CEO of Responsible Intelligence and former Head of AI Public Policy and Ethics at PwC UK</h3></div></div><div class="col-12 col-sm-auto people-person"><a href=/author/rebecca-croasdale-wood/><img width=270 height=270 loading=lazy class="avatar avatar-circle" src=/author/rebecca-croasdale-wood/avatar_hud31e21cd93b98bc0c32a4c748f54a6a2_493092_270x270_fill_lanczos_center_3.png alt=Avatar></a><div class=portrait-title><h2><a href=/author/rebecca-croasdale-wood/>Rebecca Croasdale-Wood</a></h2><h3>Senior Director Biologics Engineering,Oncology at AstraZeneca, Director Augmented Biologics Discovery & Design</h3></div></div><div class="col-12 col-sm-auto people-person"><a href=/author/ronghui-liu/><img width=270 height=270 loading=lazy class="avatar avatar-circle" src=/author/ronghui-liu/avatar_hu8a33ac97b6eedcbef0c7279e34a859a1_139799_270x270_fill_lanczos_center_3.png alt=Avatar></a><div class=portrait-title><h2><a href=/author/ronghui-liu/>Ronghui Liu</a></h2><h3>Professor of Networks and Transport Operations, University of Leeds</h3></div></div><div class="col-12 col-sm-auto people-person"><a href=/author/thomas-gorochowski/><img width=270 height=270 loading=lazy class="avatar avatar-circle" src=/author/thomas-gorochowski/avatar_hu7c38fa4f4d295784d4c55ff52fd651c7_68909_270x270_fill_q75_lanczos_center.jpg alt=Avatar></a><div class=portrait-title><h2><a href=/author/thomas-gorochowski/>Thomas Gorochowski</a></h2><h3>Professor of Biological Engineering, University of Bristol</h3></div></div><div class="col-12 col-sm-auto people-person"><a href=/author/tian-xie/><img width=270 height=270 loading=lazy class="avatar avatar-circle" src=/author/tian-xie/avatar_hub9593d566e5e968acfa37fffb10f3d99_31830_270x270_fill_q75_lanczos_center.jpg alt=Avatar></a><div class=portrait-title><h2><a href=/author/tian-xie/>Tian Xie</a></h2><h3>Principal Research Manager and Project Lead at Microsoft Research AI for Science</h3></div></div></div></div></section><section id=welcome_address class="home-section wg-people"><div class=home-section-bg></div><div class=container><div class="row justify-content-center people-widget"><div class="col-md-12 section-heading"><h1>Welcome Address</h1></div><div class=col-md-12><style>.sticky-buttons{position:fixed;top:1px!important;left:50%;transform:translateX(-50%);background:rgba(255,255,255,.9);padding:5px 8px;border-radius:8px;box-shadow:0 4px 6px rgba(0,0,0,.1);z-index:9999}.sticky-buttons button{font-family:open sans,Arial,sans-serif;font-size:14px;font-weight:700;padding:6px 12px;border:none;border-radius:4px;background-color:#154c79;color:#abdbe3;cursor:pointer;margin-right:8px;flex:none;min-width:120px}</style><div class=sticky-buttons><a href=#speaker style=text-decoration:none><button>Speakers</button>
 </a><a href=/call-for-sponsorship/ style=text-decoration:none><button>Sponsor Us</button>
 </a><a href=#key_dates style=text-decoration:none><button>Key Dates</button>
 </a><a href=#about style=text-decoration:none><button>About</button>
